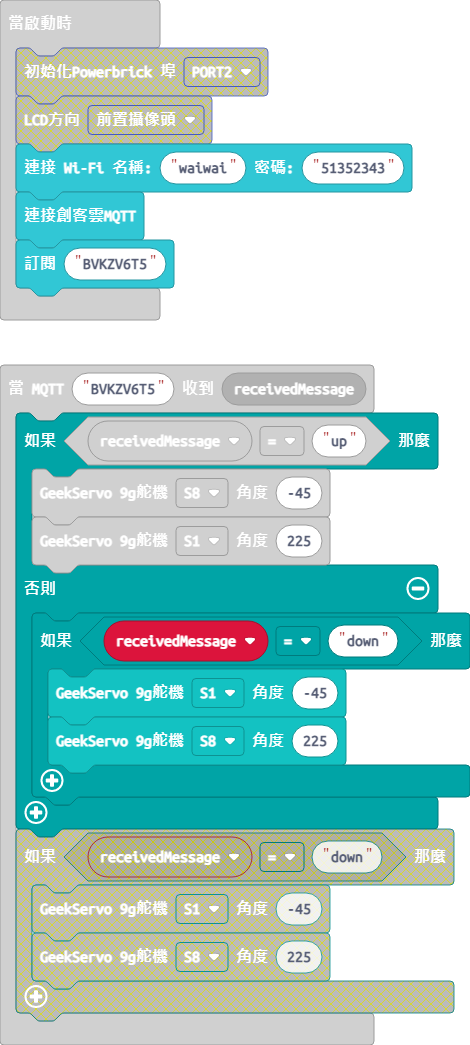
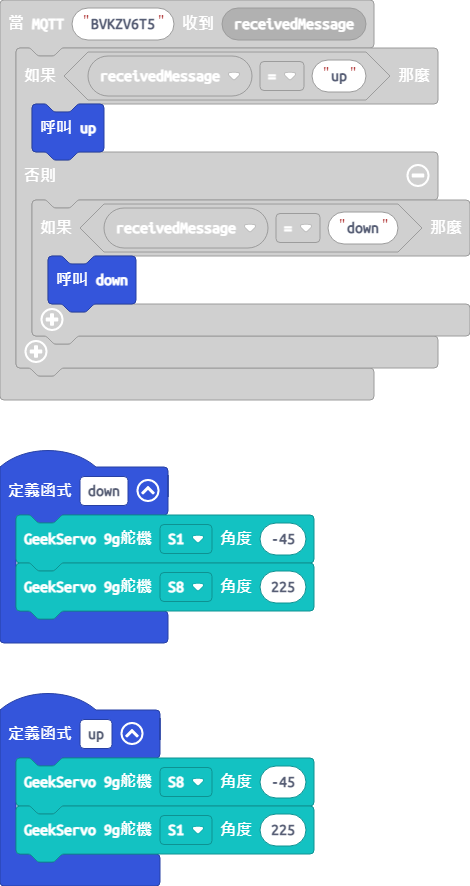
更新 main.blocks, main.ts, main.py

diff --git a/main.ts b/main.ts
@@ -1,14 +1,20 @@
 MakerCloud_KOI.registerTopicMessageHandler("BVKZV6T5", function (receivedMessage) {
     if (receivedMessage == "up") {
-        powerbrick.Servo(powerbrick.Servos.S8, -45)
-        powerbrick.Servo(powerbrick.Servos.S1, 225)
+        up()
     } else {
         if (receivedMessage == "down") {
-            powerbrick.Servo(powerbrick.Servos.S1, -45)
-            powerbrick.Servo(powerbrick.Servos.S8, 225)
+            down()
         }
     }
 })
+function up () {
+    powerbrick.Servo(powerbrick.Servos.S8, -45)
+    powerbrick.Servo(powerbrick.Servos.S1, 225)
+}
+function down () {
+    powerbrick.Servo(powerbrick.Servos.S1, -45)
+    powerbrick.Servo(powerbrick.Servos.S8, 225)
+}
 MakerCloud.setupWifi("waiwai", "51352343")
 MakerCloud_KOI.connectMakerCloudMQTT()
 MakerCloud_KOI.subscribeTopic("BVKZV6T5")

diff --git a/main.py b/main.py
@@ -2,9 +2,10 @@ def on_register_topic_message_handler(receivedMessage):
     if receivedMessage == "up":
         powerbrick.servo(powerbrick.Servos.S8, -45)
         powerbrick.servo(powerbrick.Servos.S1, 225)
-    if receivedMessage == "down":
-        powerbrick.servo(powerbrick.Servos.S1, -45)
-        powerbrick.servo(powerbrick.Servos.S8, 225)
+    else:
+        if receivedMessage == "down":
+            powerbrick.servo(powerbrick.Servos.S1, -45)
+            powerbrick.servo(powerbrick.Servos.S8, 225)
 MakerCloud_KOI.register_topic_message_handler("BVKZV6T5", on_register_topic_message_handler)
 
 MakerCloud.setup_wifi("waiwai", "51352343")
